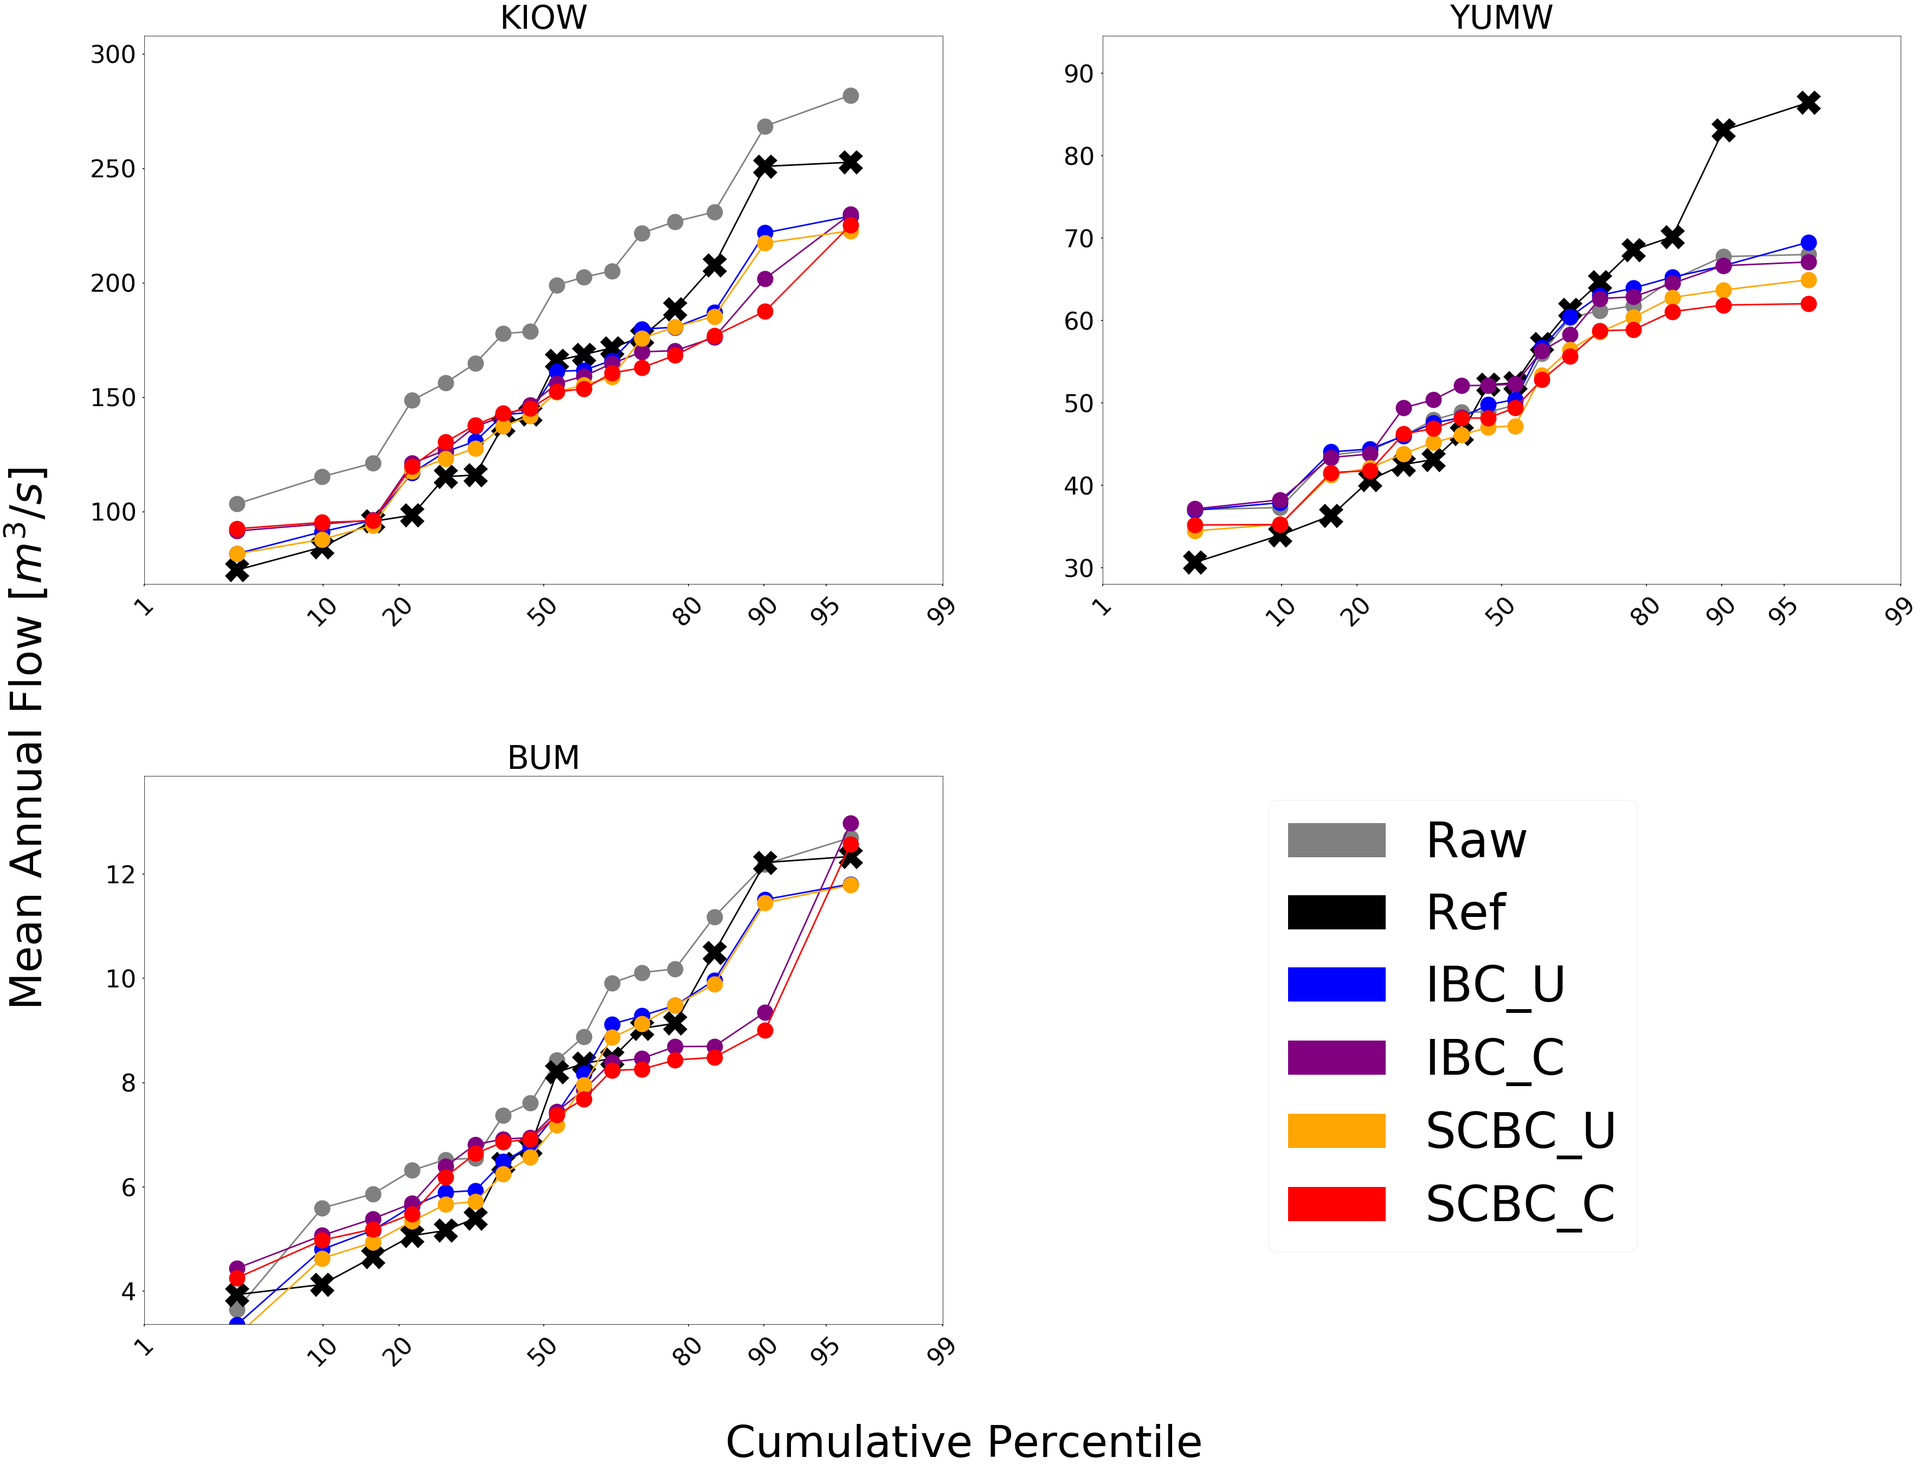
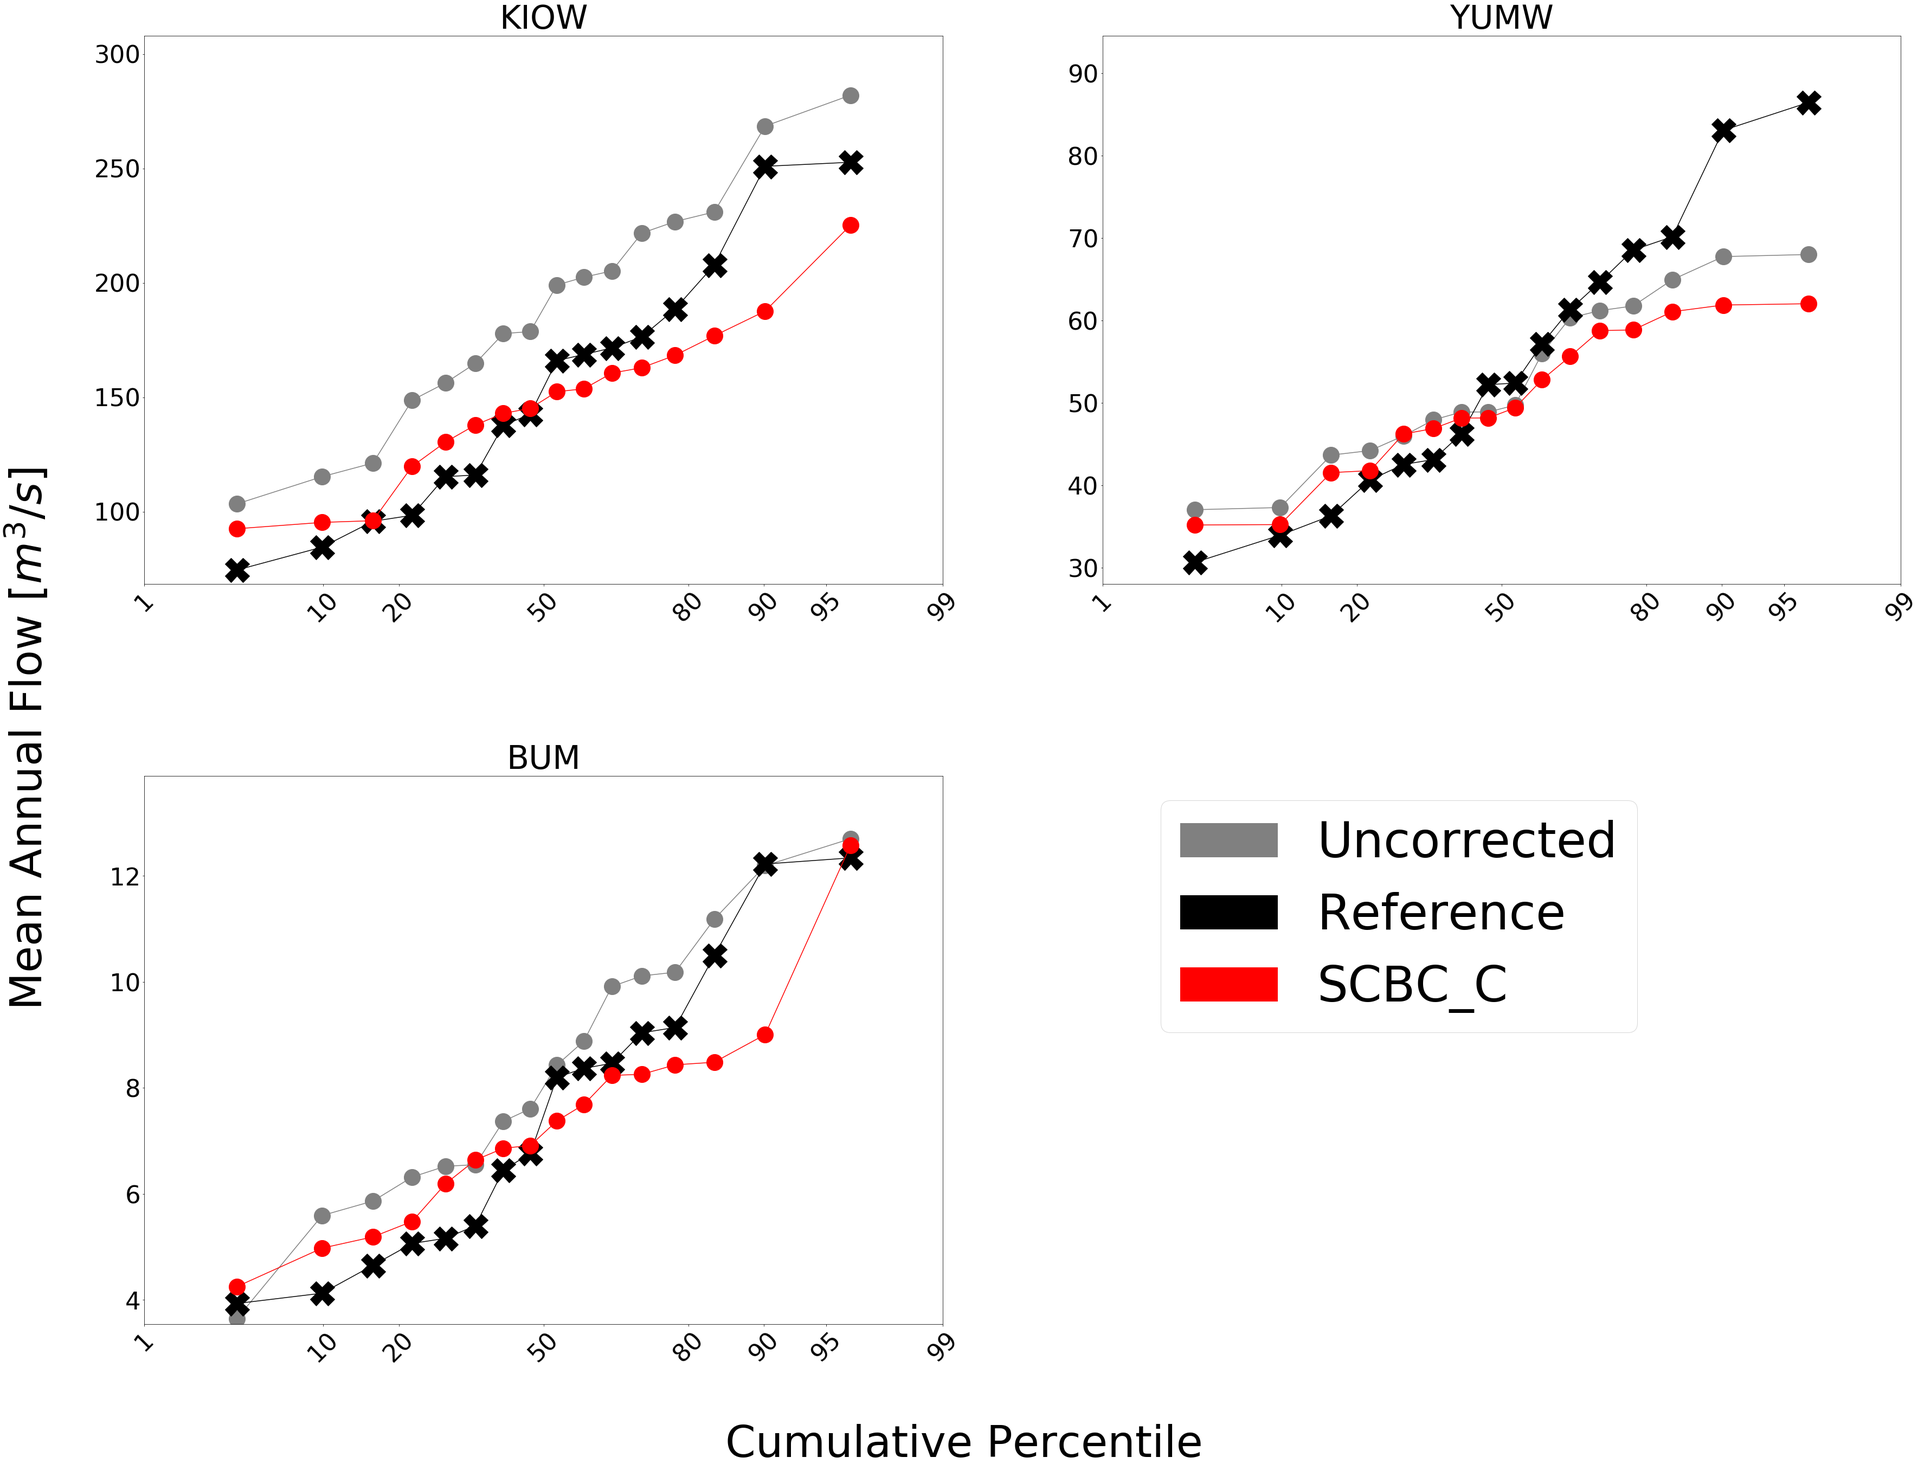
Lining up plots and code from bmorph_tutorial

diff --git a/docs/evaluation.rst b/docs/evaluation.rst
@@ -52,37 +52,102 @@ Plotting
 
 The ``Evaluation`` package of ``bmorph`` comes with a number of helpful plotting tools to analyze bias correction performance. Whether you want to compare corrected to uncorrected values, contrast different bias correction parameters, or simply compile your results into a tidy plot across multiple sites, there are plenty of plotting functions to choose from. You can find plotting functions `here <api.rst/Plotting>`_.
 
+The following plots are created from the results produced by the `tutorial <bmorph_tutorial.rst>`_, where ``yakima_ds`` is ``yakima_data_processed.nc`` from the sample data Before using any of the code provided below, make certain to import ``plotting`` like so:
+
+.. code:: ipython3
+    
+    from bmorph.evaluation import plotting
+
 Scatter
 ^^^^^^^
+
+.. code:: ipython3
+
+    plotting.compare_correction_scatter(
+        flow_dataset= yakima_ds, 
+        plot_sites = ['KIOW','YUMW','BUM'],
+        raw_var = 'raw', 
+        ref_var = 'ref', 
+        bc_vars = ['scbc_c'], 
+        bc_names = ['SCBC_C'],
+        plot_colors = list(colors[-1]),
+        pos_cone_guide = True,
+        neg_cone_guide = True,
+        symmetry = False,
+        title = '',
+        fontsize_legend = 120,
+        alpha = 0.3
+    )
 
 .. image:: Figures/Before_After_Absolute_Error_Scatter.png
     :alt: Three scatter plots labeled KIOW, YUMW, and BUM are shown, comparing differences in flow between reference data and the raw data on the horizontal axis while differences between the reference data and bias correctd data are plotted on the vertical axis. 1 to 1 and -1 to 1 lines are plotted for reference.
     
-Scatter plots are most useful for comparing absolute error before and after bias correction. The above plot is produced from `bmorph.evaluation.plotting.compare_correction_scatter <https://bmorph.readthedocs.io/en/develop/api.html#bmorph.evaluation.plotting.compare_correction_scatter>`_ to compare how absolute error changes with each of the four `bias correction methods <bias_correction.rst/bmorph Overview>`_. 1 to 1 and -1 to 1 lines are plotted for reference, as points plotted vertically between the lines demonstrates a reduction in absolute error while points plotted horizontally between the lines demonstrates an increase in abosulte error for each flow time.
+Scatter plots are most useful for comparing absolute error before and after bias correction. The above plot is produced from `bmorph.evaluation.plotting.compare_correction_scatter <https://bmorph.readthedocs.io/en/develop/api.html#bmorph.evaluation.plotting.compare_correction_scatter>`_ to compare how absolute error changes with `SCBC_C <bias_correction.rst/Spatially Consistent Bias Correction: Conditioned (SCBC_C)>`_ bias correction. 1 to 1 and -1 to 1 lines are plotted for reference, as points plotted vertically between the lines demonstrates a reduction in absolute error while points plotted horizontally between the lines demonstrates an increase in abosulte error for each flow time.
 
 Time Series
 ^^^^^^^^^^^
 
+.. code:: ipython3
+
+    plotting.plot_reduced_flows(
+        flow_dataset= yakima_ds, 
+        plot_sites = ['KIOW','YUMW','BUM','KEE'], 
+        interval = 'week',
+        raw_var = 'raw', raw_name = "Uncorrected",
+        ref_var = 'ref', ref_name = "Reference",
+        bc_vars = ['scbc_c'], bc_names = ['SCBC_C'],
+        plot_colors = ['grey', 'black', 'red']
+    );
+
 .. image:: Figures/Reduced_Flows_Weekly.png
-    :alt: Four time series plots labeled KIOW, YUMW, BUM, and KEE compare mean week of year flows between raw, reference, and the four bias correction methods.
+    :alt: Four time series plots labeled KIOW, YUMW, BUM, and KEE compare mean week of year flows between raw, reference, and scbc_c bias correction.
     
-Time Series plots are inherent to hydrologic plotting for visualizing flows throughout the year. The above plot is produced from `bmorph.evaluation.plotting.plot_reduced_flows <https://bmorph.readthedocs.io/en/develop/api.html#bmorph.evaluation.plotting.plot_reduced_flows>`_ to compare a statistical representation of the flows at each site, (Mean in this case), for raw, reference, and bias corrected flows according to the four `bias correction methods <bias_correction.rst/bmorph Overview>`_. Here, averages are computed on weekly intervals to simplify the figure, but can also be plotted on daily or monthly intervals for more or less granularity. Comparing this with median flows can describe how much the mean is impacted by extreme flows. 
+Time Series plots are inherent to hydrologic plotting for visualizing flows throughout the year. The above plot is produced from `bmorph.evaluation.plotting.plot_reduced_flows <https://bmorph.readthedocs.io/en/develop/api.html#bmorph.evaluation.plotting.plot_reduced_flows>`_ to compare a statistical representation of the flows at each site, (Mean in this case), for raw, reference, and bias corrected flows according to `SCBC_C <bias_correction.rst/Spatially Consistent Bias Correction: Conditioned (SCBC_C)>`_. Here, averages are computed on weekly intervals to simplify the figure, but can also be plotted on daily or monthly intervals for more or less granularity. Comparing this with median flows can describe how much the mean is impacted by extreme flows. 
 
 Probabilty Distribtuions
 ^^^^^^^^^^^^^^^^^^^^^^^^
 
+.. code:: ipython3
+
+    plotting.compare_mean_grouped_CPD(
+        flow_dataset= yakima_ds, 
+        plot_sites = ['KIOW','YUMW','BUM'],
+        grouper_func = plotting.calc_water_year, 
+        figsize = (60,40),
+        raw_var = 'raw', raw_name = 'Uncorrected',
+        ref_var = 'ref', ref_name = 'Reference',
+        bc_vars = ['scbc_c'], bc_names = ['SCBC_C'],
+        plot_colors = ['grey', 'black', 'red'],
+        linestyles = ['-','-','-'],
+        markers = ['o', 'X', 'o'],
+        fontsize_legend = 90,
+        legend_bbox_to_anchor = (1.9,1.0)
+    );
+
 .. image:: Figures/CDF_Annual.png
-    :alt: Three cumaltive percentile plots labeled KIOW, YUMW, and BUM compare probabilites of mean annual flows at each site as described by raw, reference, and the four bias correction methods.
+    :alt: Three cumaltive percentile plots labeled KIOW, YUMW, and BUM compare probabilites of mean annual flows at each site as described by raw, reference, and scbc_c bias correction.
     
-Probability Distributions being widley used in hydrologic planning are essential for comparing bis correction methods. The above plot is produced from `bmorph.evaluation.plotting.compare_mean_grouped_CPD <https://bmorph.readthedocs.io/en/develop/api.html#bmorph.evaluation.plotting.compare_mean_grouped_CPD>`_ to compare cumulative percentile distributions of mean annual flow at each site for raw, refererence, and bias corrected flows according to the four `bias correction methods <bias_correction.rst/bmorph Overview>`_. This function is also capable of subsetting data by month should you want to compare only Januaray flows for example. Because ``bmorph`` makes changes based on flow distributions, this plot is the closest to directly analyzing how the different methods correct flows.
+Probability Distributions being widley used in hydrologic planning are essential for comparing bis correction methods. The above plot is produced from `bmorph.evaluation.plotting.compare_mean_grouped_CPD <https://bmorph.readthedocs.io/en/develop/api.html#bmorph.evaluation.plotting.compare_mean_grouped_CPD>`_ to compare cumulative percentile distributions of mean annual flow at each site for raw, refererence, and bias corrected flows according to `SCBC_C <bias_correction.rst/Spatially Consistent Bias Correction: Conditioned (SCBC_C)>`_. This function is also capable of subsetting data by month should you want to compare only Januaray flows for example. Because ``bmorph`` makes changes based on flow distributions, this plot is the closest to directly analyzing how the different methods correct flows.
 
 Box & Whisker
 ^^^^^^^^^^^^^
 
+.. code:: ipython3
+
+    plotting.kl_divergence_annual_compare(
+        flow_dataset= yakima_ds, 
+        sites = ['KIOW','YUMW','BUM'],
+        fontsize_legend = 60, title = '',
+        raw_var = 'raw', raw_name = 'Uncorrected',
+        ref_var = 'ref', ref_name = 'Reference',
+        bc_vars = ['scbc_c'], bc_names = ['SCBC_C'],
+        plot_colors = ['grey','red']
+    );
+
 .. image:: Figures/KL_Div_Comparison.png
-    :alt: Three box and whisker plots labeld KIOW, YUMW, and BUM compare Annual KL Divergence between reference and 5 scenarios: Raw, IBC_U, IBC_C, SCBC_U, and SCBC_C.
+    :alt: Three box and whisker plots labeld KIOW, YUMW, and BUM compare Annual KL Divergence between reference and 2 scenarios: Raw and SCBC_C.
     
-Box & Whisker plots are useful for representing statistics that only require a single axis such as `KL Divergence <Kullback-Leibler Divergence (KL Divergence)>`_ or `KGE <Kling-Gupta Efficiency (KGE)>`_. The above plot is produced from `bmorph.evaluation.plotting.kl_divergence_annual_compare <https://bmorph.readthedocs.io/en/develop/api.html#bmorph.evaluation.plotting.kl_divergence_annual_compare>` to compare KL Divergence with respect to reference flows for raw and the four `bias correction methods <bias_correction.rst/bmorph Overview>`_. Being able to view KL Divergence for different scenarios side-by-side helps to provide a better understanding of how well probability distributions are being fitted across the entire time provided.
+Box & Whisker plots are useful for representing statistics that only require a single axis such as `KL Divergence <Kullback-Leibler Divergence (KL Divergence)>`_ or `KGE <Kling-Gupta Efficiency (KGE)>`_. The above plot is produced from `bmorph.evaluation.plotting.kl_divergence_annual_compare <https://bmorph.readthedocs.io/en/develop/api.html#bmorph.evaluation.plotting.kl_divergence_annual_compare>` to compare KL Divergence with respect to reference flows for raw and `SCBC_C <bias_correction.rst/Spatially Consistent Bias Correction: Conditioned (SCBC_C)>`_. Being able to view KL Divergence for different scenarios side-by-side helps to provide a better understanding of how well probability distributions are being fitted across the entire time provided.
 
 Simple River Network
 --------------------

diff --git a/docs/bias_correction.rst b/docs/bias_correction.rst
@@ -71,12 +71,38 @@ Univariated Independent Bias Correction (IBC_U) is considered the traditional bi
 
 Workflow functions : `bmorph.core.workflows.apply_annual_bmorph`_, `bmorph.core.workflows.apply_interval_bmorph`_
 
+.. code:: ipython3
+
+    raw_ts = basin_met_seg.sel(seg=seg)['IRFroutedRunoff'].to_series()
+    train_ts = basin_met_seg.sel(seg=seg)['IRFroutedRunoff'].to_series()
+    obs_ts = basin_met_seg.sel(seg=seg)['up_ref_flow'].to_series()
+
+    ibc_u_flows[site], ibc_u_mults[site] = bmorph.workflows.apply_interval_bmorph(
+        raw_ts, train_ts, obs_ts, 
+        train_window, bmorph_window, reference_window, 
+        interval, overlap)
+
 Independent Bias Correction: Conditioned (IBC_C)
 ^^^^^^^^^^^^^^^^^^^^^^^^^^^^^^^^^^^^^^^^^^^^^^^^
 
 Similar to `IBC_U <Independent Bias Correction: Univariate (IBC_U)>`_, Conditioned Independent Bias Correction (IBC_C) can only apply corrections at gauge sites where there is refence flow data. IBC_C integrates meteorologic data into the ``bmorph`` bias correction process as described in `bmorph.core.bmorph.cqm <https://bmorph.readthedocs.io/en/develop/api.html#module-bmorph.core.bmorph.cqm>`_. Conditioning allows hydrologic process based knowledge to be included in the bias correction process that can help to root bias corrections in meteorologic trends. 
 
 Workflow functions : `bmorph.core.workflows.apply_annual_bmorph`_, `bmorph.core.workflows.apply_interval_bmorph`_
+
+.. code:: ipython3
+
+    raw_ts = basin_met_seg.sel(seg=seg)['IRFroutedRunoff'].to_series()
+    train_ts = basin_met_seg.sel(seg=seg)['IRFroutedRunoff'].to_series()
+    obs_ts = basin_met_seg.sel(seg=seg)['up_ref_flow'].to_series()
+    cond_var = basin_met_seg.sel(seg=seg)[f'up_{condition_var}'].to_series()
+
+    ibc_c_flows[site], ibc_c_mults[site] = bmorph.workflows.apply_interval_bmorph(
+        raw_ts, train_ts, obs_ts, 
+        train_window, bmorph_window, reference_window, 
+        interval, overlap,
+        raw_y=cond_var, train_y=cond_var, obs_y=cond_var)
+        
+Notice that in order to use conditioning, the ``*_y`` variables are needed to specify which meteorological time series to use in conditioning.
 
 Spatially Consistent Bias Correction: Univariate (SCBC_U)
 ^^^^^^^^^^^^^^^^^^^^^^^^^^^^^^^^^^^^^^^^^^^^^^^^^^^^^^^^^
@@ -85,12 +111,42 @@ Univariate Spatially Consistent Bias Correction (SCBC_U) aims to address IBC's i
 
 Workflow functions : `bmorph.core.workflows.apply_annual_blendmorph`_, `bmorph.core.workflows.apply_interval_blendmorph`_
 
+.. code:: ipython3
+
+    univariate_config = {
+    'train_window': train_window,
+    'bmorph_window': bmorph_window,
+    'reference_window': reference_window,
+    'bmorph_interval': interval,
+    'bmorph_overlap': overlap,
+    }
+
+    unconditioned_seg_totals = bmorph.workflows.run_parallel_scbc(
+    basin_met_seg, client, output_prefix, mizuroute_exe, univariate_config)
+
+
 Spatially Consistent Bias Correction: Conditioned (SCBC_C)
 ^^^^^^^^^^^^^^^^^^^^^^^^^^^^^^^^^^^^^^^^^^^^^^^^^^^^^^^^^^
 
 Conditioned Spatially Consistent Bias Correction (SCBC_C) combines the meteorologic conditioning elements of `IBC_C <Independent Bias Correction: Conditioned (IBC_C)>`_ with the spatial consistency of `SCBC_U <Spatially Consistent Bias Correction: Univariate (SCBC_U)>`_. This implementation of SCBC factors in meteorologic variables given into the formulation of refernce flows for each seg to be corrected to. Defined by the hydrologic response units, or `hru's <data.rst/Variable Naming Conventions>`_, they impact, meteorologic data is mappable to each seg within the watershed topology. In `IBC_C <Independent Bias Correction: Conditioned (IBC_C)>`_, only the data mapped to gauge sites would be used in bias correction, whereas SCBC_C can utilize meteorologic data across the watershed as it incoporates all defined segs. 
 
 Workflow functions : `bmorph.core.workflows.apply_annual_blendmorph`_, `bmorph.core.workflows.apply_interval_blendmorph`_
+
+.. code:: ipython3
+
+    conditonal_config = {
+    'train_window': train_window,
+    'bmorph_window': bmorph_window,
+    'reference_window': reference_window,
+    'bmorph_interval': interval,
+    'bmorph_overlap': overlap,
+    'condition_var': condition_var
+    }
+    
+    conditioned_seg_totals = bmorph.workflows.run_parallel_scbc(
+    basin_met_seg, client, output_prefix, mizuroute_exe, conditonal_config)
+
+Again, because we are conditioning our bias corrections, ``condition_var`` must be included in running this script. 
 
 .. _`bmorph.core.workflows.apply_annual_bmorph`: https://bmorph.readthedocs.io/en/develop/api.html#module-bmorph.core.workflows.apply_annual_bmorph
 .. _`bmorph.core.workflows.apply_interval_bmorph`: https://bmorph.readthedocs.io/en/develop/api.html#module-bmorph.core.workflows.apply_interval_bmorph`

diff --git a/docs/data.rst b/docs/data.rst
@@ -65,5 +65,5 @@ Output Specifications
 
 ``bmorph`` outputs a ``pandas.Series`` time series with flows as values indexed by time entires provided by given data. Total lenght of the output is the number of flow values provided as ``float32``. 
 
-The `tutorial <bmorph_tutorial.rst>`_ stores each of these outputs in a dictionary with their site/seg being their corresponding keys. `bmoprh.workflows.bmorph_to_datarray <https://bmorph.readthedocs.io/en/develop/api.html#bmorph.core.workflows.bmorph_to_dataarray>`_ converts such a dictionary into an ``xarray.DataArray`` with coordinates ``site`` and ``time``, corresponding the the dictionary keys and the time of the ``pandas.Series`` that they access. From there, uncorrected and reference flows can be combined with the corrected flows into a singular ``xarray.DataArray`` and saved into a ``netCDF`` file if desired, storing it in the ``output`` directory if following the tutorial.
+The `tutorial <bmorph_tutorial.rst>`_ stores each of these outputs in a dictionary with their site/seg being their corresponding keys. `bmoprh.workflows.bmorph_to_datarray <https://bmorph.readthedocs.io/en/develop/api.html#bmorph.core.workflows.bmorph_to_dataarray>`_ converts such a dictionary into an ``xarray.DataArray`` with coordinates ``site`` and ``time``, corresponding the the dictionary keys and the time of the ``pandas.Series`` that they access. From there, uncorrected and reference flows can be combined with the corrected flows into a singular ``xarray.Dataset`` and saved into a ``netCDF`` file if desired, storing it in the ``output`` directory if following the tutorial.
 

diff --git a/docs/index.rst b/docs/index.rst
@@ -18,6 +18,13 @@ Then, to install ``bmorph`` run,
    conda activate bmorph
    python setup.py develop
    python -m ipykernel install --user --name bmorph
+   
+Dependencies
+============
+
+The following packages and versions are required to be installed to operate ``bmorph``:
+
+
 
 Getting started
 ===============
